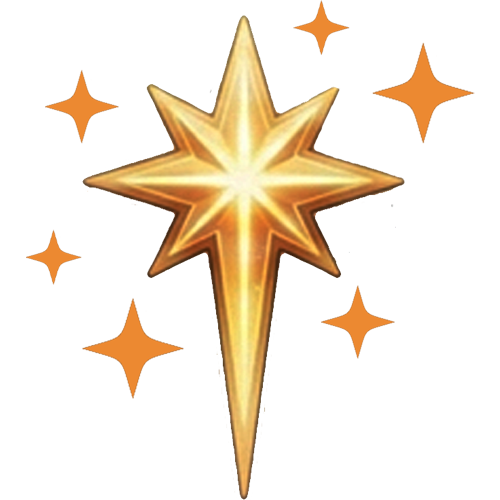
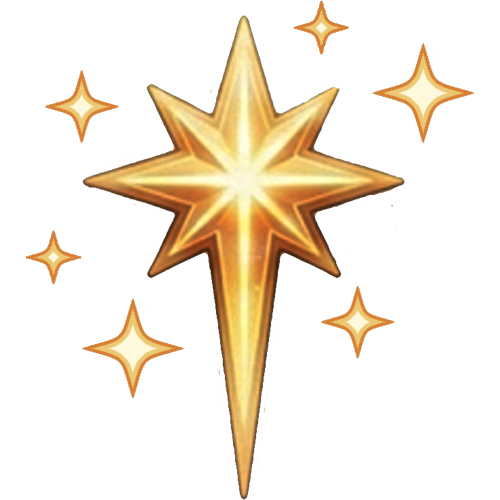
commit 2 files to main

diff --git a/index.html b/index.html
@@ -117,6 +117,7 @@ body{background:#1a1a1a;display:flex;justify-content:center;align-items:flex-sta
 .prayer-text{font-size:15px;color:#111111;line-height:1.8;font-weight:600;background:rgba(255,255,255,0.6);padding:16px;border-radius:16px;margin-bottom:16px;}
 .prayer-actions{display:flex;gap:10px;flex-wrap:wrap;}
 .action-btn{flex:1;min-width:80px;padding:12px 8px;background:rgba(255,255,255,0.35);border:1px solid rgba(61,31,0,0.2);color:#111111;font-family:'Lato',sans-serif;font-weight:600;font-size:13px;border-radius:50px;cursor:pointer;}
+.aud-btn{background:rgba(255,255,255,0.4);color:#111111;transition:background 0.2s ease;}.aud-btn:hover{background:rgba(255,255,255,0.5);}.aud-btn.selected{background:rgba(255,255,255,0.65);font-weight:700;}
 .listen-btn{background:linear-gradient(135deg,rgba(255,255,255,0.25),rgba(255,255,255,0.1));border:1.5px solid rgba(255,255,255,0.5);}
 .listen-btn.playing{background:linear-gradient(135deg,rgba(255,200,80,0.4),rgba(200,144,10,0.3));}
 
@@ -635,23 +636,23 @@ input[type=range]{flex:1;accent-color:#f5c830;}
     <textarea class="form-textarea" id="requestPrayerText" style="height:110px;" placeholder="Share openly... your circle will lift this up before God."></textarea>
     <label class="form-label">Send request to</label>
     <div style="display:flex;gap:10px;flex-wrap:wrap;margin-bottom:16px;">
-      <button class="action-btn" id="audAll" onclick="selectAudience('all')" style="background:rgba(30,15,0,0.75);color:#f5c830;">My Whole Circle</button>
-      <button class="action-btn" id="audFamily" onclick="selectAudience('family')" style="background:rgba(255,255,255,0.4);color:#111;">Family</button>
-      <button class="action-btn" id="audFriends" onclick="selectAudience('friends')" style="background:rgba(255,255,255,0.4);color:#111;">Friends</button>
+      <button class="action-btn aud-btn" id="audAll" onclick="selectAudience('all')">Circle</button>
+      <button class="action-btn aud-btn" id="audFamily" onclick="selectAudience('family')">Family</button>
+      <button class="action-btn aud-btn" id="audFriends" onclick="selectAudience('friends')">Friends</button>
     </div>
     <button class="generate-btn" onclick="submitPrayerRequest()" style="margin-top:4px;">&#128591; Send My Prayer Request</button>
     <button onclick="showScreen('circleScreen')" style="width:100%;margin-top:10px;padding:14px;background:rgba(255,255,255,0.45);border:1.5px solid rgba(0,0,0,0.15);color:#111111;font-family:'Lato',sans-serif;font-weight:700;font-size:14px;border-radius:50px;cursor:pointer;">&#129464; Manage My Circle</button>
     <div style="margin-top:28px;">
       <div class="result-label" style="margin-bottom:12px;">Recent Requests from My Circle</div>
       <div style="background:rgba(255,255,255,0.45);border-radius:16px;padding:16px;margin-bottom:10px;">
-        <div style="font-weight:700;color:#111;font-size:14px;">Sarah M. is asking for prayer</div>
+        <div style="font-weight:700;color:#111;font-size:14px;">Maddie H. is asking for prayer</div>
         <div style="font-size:13px;color:#333;margin-top:4px;margin-bottom:10px;">Please pray for my mother's surgery this Thursday.</div>
-        <button class="action-btn" style="width:100%;" onclick="prayForRequest('Sarah','mother surgery Thursday')">&#128591; Pray for Sarah</button>
+        <button class="action-btn" style="width:100%;" onclick="prayForRequest('Maddie','mother surgery Thursday')">&#128591; Pray for Maddie</button>
       </div>
       <div style="background:rgba(255,255,255,0.45);border-radius:16px;padding:16px;margin-bottom:10px;">
-        <div style="font-weight:700;color:#111;font-size:14px;">James T. is asking for prayer</div>
+        <div style="font-weight:700;color:#111;font-size:14px;">Shane F. is asking for prayer</div>
         <div style="font-size:13px;color:#333;margin-top:4px;margin-bottom:10px;">Going through a difficult season at work. Need strength.</div>
-        <button class="action-btn" style="width:100%;" onclick="prayForRequest('James','difficult season at work needing strength')">&#128591; Pray for James</button>
+        <button class="action-btn" style="width:100%;" onclick="prayForRequest('Shane','difficult season at work needing strength')">&#128591; Pray for Shane</button>
       </div>
       <div style="font-size:12px;font-style:italic;color:rgba(0,0,0,0.45);text-align:center;margin-top:8px;">Live requests from your circle coming in the full app.</div>
     </div>
@@ -1494,8 +1495,7 @@ function selectAudience(aud) {
   ['All','Family','Friends'].forEach(function(a) {
     var btn = document.getElementById('aud' + a);
     if (!btn) return;
-    btn.style.background = a.toLowerCase() === aud ? 'rgba(30,15,0,0.75)' : 'rgba(255,255,255,0.4)';
-    btn.style.color = a.toLowerCase() === aud ? '#f5c830' : '#111';
+    btn.classList.toggle('selected', a.toLowerCase() === aud);
   });
 }
 